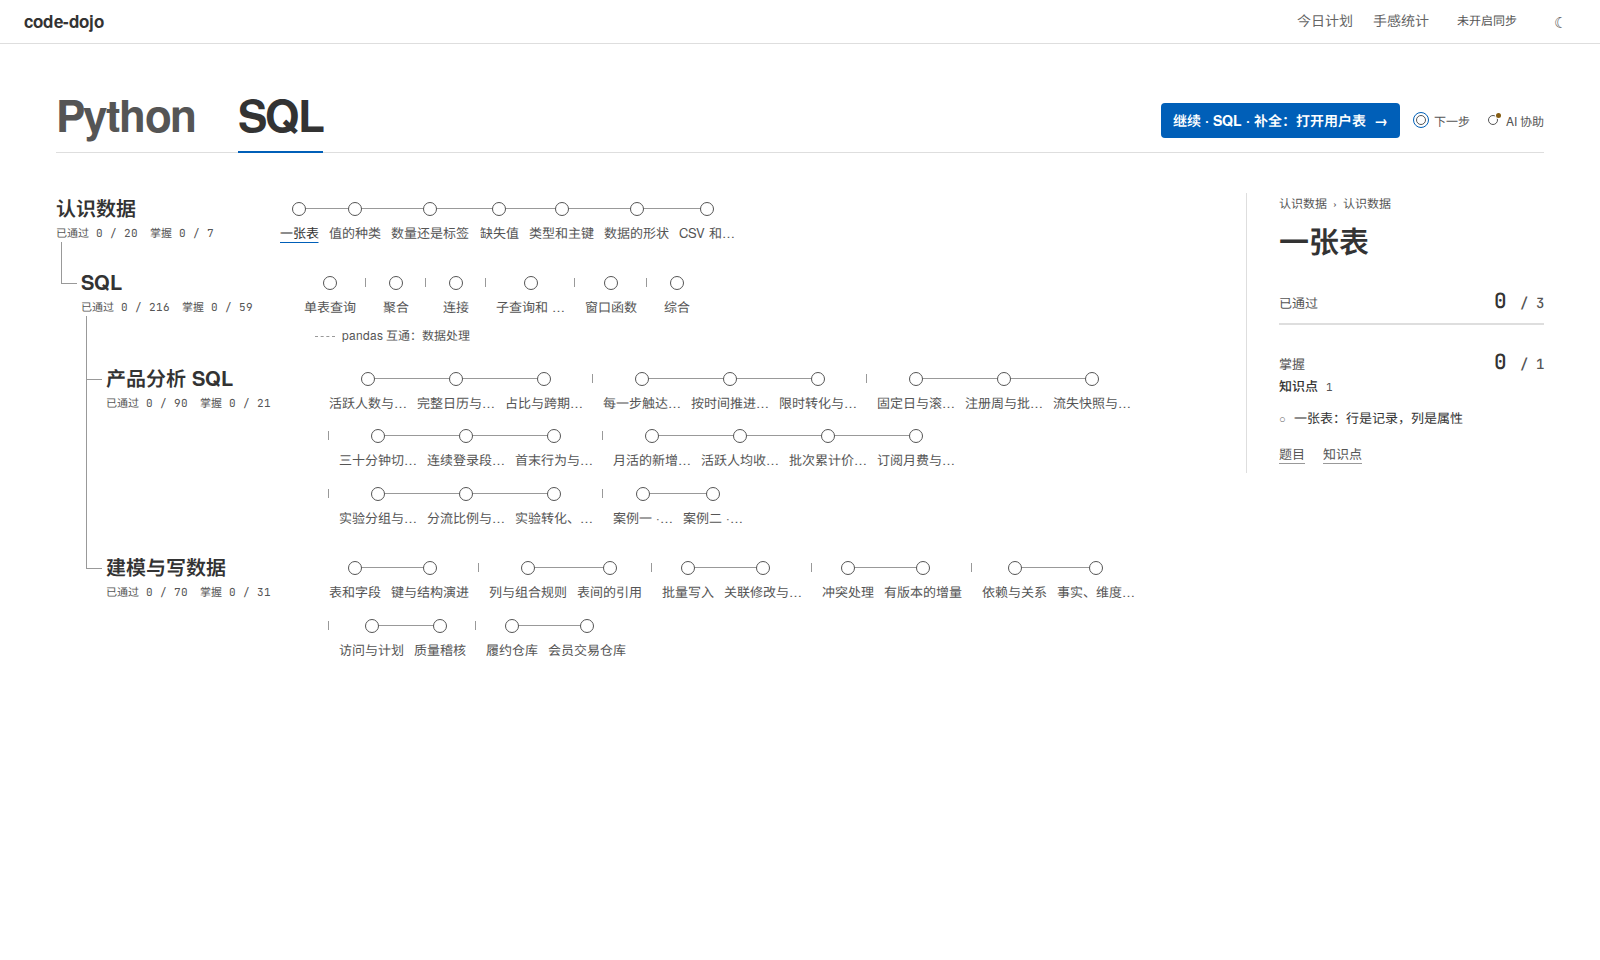
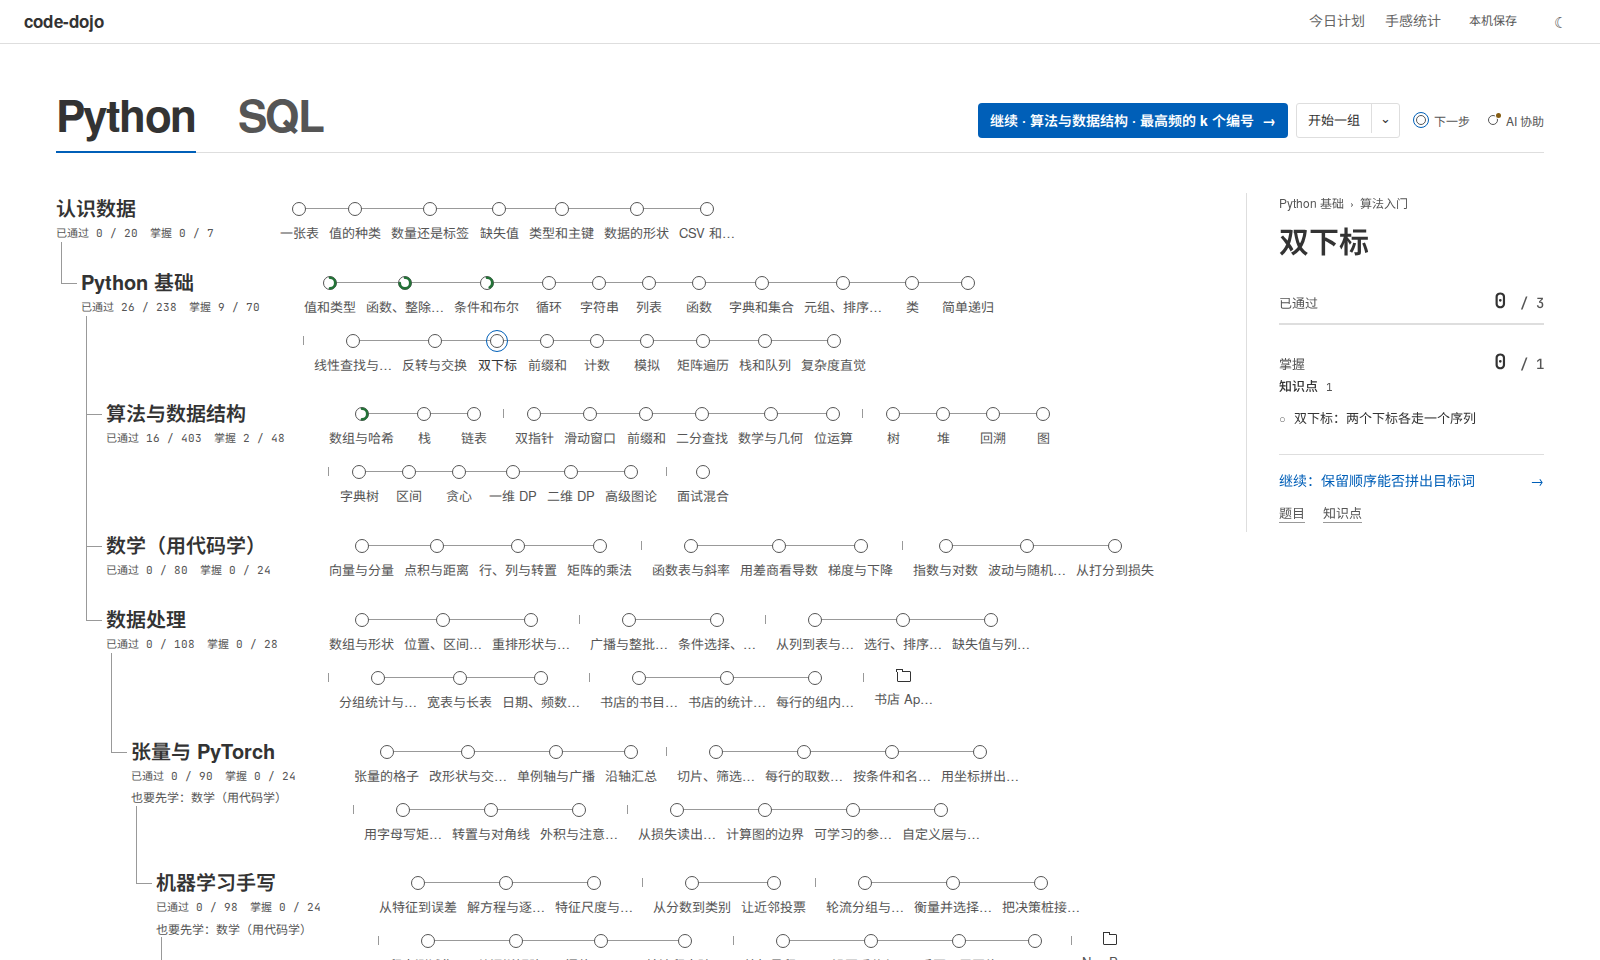
仓库首页：下载即用、AI 助教需本机装 Claude Code / Codex；新增项目、参考答案、一组练习、助教改草稿的介绍和截图
测试的临时数据目录退出时删除（每次约 1 GB，之前把根分区塞满了）。

diff --git a/server/tests/conftest.py b/server/tests/conftest.py
@@ -1,6 +1,8 @@
 """测试用独立的题库（tests/fixtures/problems）和临时数据目录，不碰真实题库和数据。"""
 
+import atexit
 import os
+import shutil
 import tempfile
 from dataclasses import replace
 from pathlib import Path
@@ -10,6 +12,8 @@ import pytest
 FIXTURES = Path(__file__).parent / "fixtures" / "problems"
 os.environ["CODE_DOJO_PROBLEMS"] = str(FIXTURES)
 os.environ["CODE_DOJO_DATA"] = tempfile.mkdtemp(prefix="code-dojo-test-data-")
+# 数据目录里有判题用的 venv（约 1 GB），每跑一次留一份会把 /tmp 塞满。
+atexit.register(shutil.rmtree, os.environ["CODE_DOJO_DATA"], ignore_errors=True)
 os.environ["CODE_DOJO_AI_PROVIDER"] = "off"  # 测试里不调真 AI，用 FakeProvider 替换
 os.environ["CODE_DOJO_AUTH"] = "off"
 os.environ.setdefault("CODE_DOJO_BANK_WATCH", "sync")  # 测试里改了文件马上要看到，保持每次请求都检查

diff --git a/README.md b/README.md
@@ -2,17 +2,29 @@
 
 **自用的手写代码练习场** · A personal practice app for getting my hands back on writing code: Python, algorithms, SQL, and machine learning built up from scratch, ending with a small GPT.
 
-> **Status: personal use.** This repository is public as a showcase only. The app is wired to my own accounts: problem-bank updates come through this repo's releases, progress syncs to a private repo, and the AI tutor runs on my Claude / ChatGPT subscriptions. It isn't packaged for anyone else to install, and I'm not taking issues or pull requests. The UI and the problem text are in Chinese.
+> **Status: a personal project you're welcome to try.** I built it for my own practice and keep working on it. The desktop app works locally out of the box: download it, open it, and your progress stays on your own computer. The UI and the problem text are in Chinese. I'm not taking issues or pull requests.
+>
+> **The AI tutor needs Claude Code or Codex on your own machine.** It runs the `claude` or `codex` command-line tool that you've installed and logged into with your own subscription; nothing is sent through a server of mine. Without either one, everything else works: lessons, judging, reference answers and projects. Only the tutor and AI-generated problems are switched off.
 
 ![Learning map](docs/images/map.png)
 
+## Getting it
+
+Download the installer for your platform from the latest [`app-v*` release](https://github.com/Rebas9512/code_dojo/releases/latest): an AppImage (or tar.gz) for Linux x86-64, a zip for Apple Silicon macOS, and a portable zip for Windows x64. The builds are unsigned, so macOS and Windows will ask you to confirm the first launch. Step-by-step instructions (in Chinese) are in [deploy/README.md](deploy/README.md#在一台新电脑上用).
+
+- **Local by default.** No account, no password. On first launch the app downloads the problem bank from this repo's public releases, and checks for a newer bank each time it opens.
+- **Progress stays on your machine**, in your user data folder. There's no telemetry.
+- **Sync is for my own machines.** In *Desktop → Settings* I enter a sync code that unlocks access to my private progress repo, so I can continue on another computer. If you leave it empty, the app simply keeps your progress locally.
+
 ## Highlights
 
-- **12 tracks, 1,554 problems**, all checked by scripts: every reference solution runs in the judge sandbox, and the learning curve is validated so that each problem introduces at most one new skill.
-- **A VS Code–style workspace**: statement and lesson on the left, Monaco editor in the middle, the AI tutor on the right, and test results / output / problems in a bottom panel. There's also a command palette, Ctrl+P quick open, and a "bare mode" that turns off autocomplete for interview-style practice.
-- **An AI tutor and AI-generated problems**, using Claude Code or Codex (whichever is installed) through my own subscription, with no API keys. A generated problem only appears after it passes verification in the sandbox.
+- **12 tracks, 1,620 problems, 7 capstone projects**, all checked by scripts: every reference solution runs in the judge, and the learning curve is validated so that each problem introduces at most one new skill.
+- **Capstone projects**: the advanced tracks and the SQL tracks end with a project split into parts. Each part is one problem, judged on its own; together they assemble into a script or notebook that runs end to end.
+- **Reference answers after you solve**: 1,366 problems have a clean, teaching-oriented standard solution with short notes. Once you've passed, you can open it and compare it with your own code in a diff view.
+- **Practice sets and focus mode**: start a set of 3–8 problems, with due reviews as a warm-up. The app goes full screen with everything else folded away, and the next problem opens as soon as you pass.
+- **A VS Code–style workspace**: statement and lesson on the left, Monaco editor in the middle, the AI tutor on the right, and test results / output / problems in a bottom panel. Every problem has a scratch file next to the answer. There's also a command palette, Ctrl+P quick open, and a "bare mode" that turns off autocomplete for interview-style practice.
+- **An AI tutor that edits alongside you**: it sees your answer and your scratch file, and can write in either one. It can also generate new problems, which only appear after they pass verification. It uses Claude Code or Codex installed on your machine (see above), with no API keys.
 - **Local judging**: Python runs natively with time and memory limits; SQL runs in the browser on PGlite, a WebAssembly build of PostgreSQL.
-- **A desktop app** for Linux, macOS and Windows (Electron). It pulls the latest problem bank on launch and syncs progress across machines.
 
 ## Track design
 
@@ -31,29 +43,29 @@ All tracks start from **认识数据 (Meet the data)**, a short shared root abou
 | Meet the data | 20 | the shared starting point |
 | Python basics | 238 | syntax → beginner algorithms |
 | Algorithms & data structures | 403 | data structures → core patterns → trees & graphs → advanced → mixed interview sets (NeetCode 250 skeleton) |
-| SQL | 216 | single table → aggregation → joins → subqueries & CTEs → window functions → mixed (SQL 50 skeleton) |
-| Product analytics SQL | 90 | metrics, funnels, retention, sessions, growth accounting, experiments, case studies |
-| Modeling & writing data | 70 | DDL & constraints, inserts / merges / incremental loads, dimensional modeling, views & data quality |
+| SQL | 224 | single table → aggregation → joins → subqueries & CTEs → window functions → mixed (SQL 50 skeleton) → **project** |
+| Product analytics SQL | 98 | metrics, funnels, retention, sessions, growth accounting, experiments, case studies → **project** |
+| Modeling & writing data | 78 | DDL & constraints, inserts / merges / incremental loads, dimensional modeling, views & data quality → **project** |
 | Math (with code) | 80 | vectors & matrices, functions & derivatives, logs & probability |
-| Data wrangling | 100 | NumPy, broadcasting, pandas, groupby / merge / pivot, LeetCode-style SQL in pandas |
+| Data wrangling | 108 | NumPy, broadcasting, pandas, groupby / merge / pivot, LeetCode-style SQL in pandas → **project** |
 | Tensors & PyTorch | 90 | shapes, indexing & masks, einsum, autograd & `nn.Module` |
-| ML from scratch | 87 | regression & gradient descent, classification, clustering & trees, evaluation, backprop & MLP |
-| Training | 80 | data pipelines, training loops, evaluation & tuning, fixing broken training scripts |
-| Build an LLM | 80 | tokenization → embeddings & attention → Transformer block → GPT forward & sampling → training & KV cache |
+| ML from scratch | 98 | regression & gradient descent, classification, clustering & trees, evaluation, backprop & MLP → **project** |
+| Training | 91 | data pipelines, training loops, evaluation & tuning, fixing broken training scripts → **project** |
+| Build an LLM | 92 | tokenization → embeddings & attention → Transformer block → GPT forward & sampling → training & KV cache → **project** |
 
 How the curriculum is built:
 
 - **It assumes no prior knowledge.** Every skill has a short lesson with runnable, step-labelled examples and a mini-quiz, attached right next to the problems that use it.
-- **Each problem introduces at most one new skill.** A skill graph tracks prerequisites. A checker script detects which syntax each reference solution actually uses (Python AST / SQL patterns), so solutions can't rely on anything not taught yet.
+- **Each problem introduces at most one new skill.** A skill graph tracks prerequisites. A checker script detects which syntax each reference solution actually uses (Python AST / SQL patterns), so solutions can't rely on anything not taught yet. The same check applies to the reference answers.
 - **Each skill has its own ladder**: *predict* the output → *complete* the missing piece → *fix* a bug → *write* it from scratch → *variant* → *combine*. Predict problems target named misconceptions (for example "print is the same as return"), drawn from a misconception catalogue.
 - **Interview skeletons**: NeetCode 250 for algorithms and SQL 50 for SQL, with small bridge problems before each new pattern. Problems that are LeetCode-premium were replaced with original problems of the same shape.
-- **Mastery and review**: skills move from learning to mastered, and a daily plan mixes due reviews with new problems. A review can be a freshly generated variant, so you can't just recall the old answer.
+- **Mastery and review**: skills move from learning to mastered, and a daily plan mixes due reviews with new problems. A review can be a freshly generated variant, so you can't just recall the old answer. The **Continue** button takes you to the next unsolved problem after the furthest point you've reached on the track you practised most recently, so skipping ahead is fine.
 
 ![A lesson with runnable examples](docs/images/lesson.png)
 
 ### Build an LLM (手搓 LLM)
 
-The last track goes from bytes to a small working GPT. Every step is checked exactly against reference implementations:
+This track goes from bytes to a small working GPT. Every step is checked exactly against reference implementations:
 
 | Stage | What you build | Checked against |
 |---|---|---|
@@ -62,26 +74,60 @@ The last track goes from bytes to a small working GPT. Every step is checked exa
 | 3 Transformer block | LayerNorm by hand, residuals, feed-forward, a pre-norm block | standard layers with fixed weights |
 | 4 GPT forward & sampling | a full single-block GPT, temperature, top-k / top-p, stopping | all 32 logits at every position; seeded generation |
 | 5 Training & KV cache | next-token training on a tiny corpus, a KV cache for incremental decoding | per-step losses; cached vs. uncached outputs |
+| 6 Project | a character-level GPT trained on *Pride and Prejudice*: AdamW, warm-up + cosine schedule, sampling, KV-cache generation | validation loss < 2.0; both decoding paths agree |
 
-The model is deliberately tiny (32-token vocab, context 16, width 48, 4 heads), so a whole training run is judged on CPU in a few seconds. Problems and corpora are original; the approach follows [minbpe](https://github.com/karpathy/minbpe), [nanoGPT](https://github.com/karpathy/nanoGPT) and [LLMs-from-scratch](https://github.com/rasbt/LLMs-from-scratch).
+The models are deliberately tiny, so a whole training run is judged on CPU. Problems are original; the approach follows [minbpe](https://github.com/karpathy/minbpe), [nanoGPT](https://github.com/karpathy/nanoGPT) and [LLMs-from-scratch](https://github.com/rasbt/LLMs-from-scratch).
 
 ![A build-an-LLM problem](docs/images/llm.png)
 
+## Capstone projects
+
+Seven tracks end with a project. Each part is a normal problem with its own tests; while you work on one part, the others are filled in with reference implementations, so each part can be judged on its own. Once every part has passed, the project page assembles your parts into one file, runs it end to end, and checks the result. You can export it as `.py` and `.ipynb` (Python) or `.sql`, and download the data to run it yourself.
+
+| Track | Project | Parts | Passes when |
+|---|---|---:|---|
+| Data wrangling | **Reader features for a bookstore app**: clean three raw logs with pandas, split sessions, and write one row per reader with a churn label | 8 | exact row count, churn rate and 30-day spend |
+| ML from scratch | **Churn prediction in NumPy**: logistic regression by hand on the table above, with scaling, gradients, F1, AUC and k-fold tuning | 11 | F1 ≥ 0.78 and AUC ≥ 0.86 on held-out readers |
+| Training | **A standard PyTorch training script** on 8×8 handwritten digits: config & seeds, loaders, AdamW + scheduler, early stopping, checkpoints, logging, CLI | 11 | validation accuracy ≥ 0.95 |
+| Build an LLM | **A character-level GPT**: vocabulary, batching, attention, blocks, training with validation loss, and generation with and without a KV cache | 12 | validation loss < 2.0, identical outputs from both paths |
+| SQL | **A monthly bookstore report**: seven CTEs (valid orders, revenue, month-over-month change, category ranks, repeat buyers…) combined into one `WITH … SELECT` | 8 | matches the reference report row by row |
+| Product analytics SQL | **A growth dashboard** for a reading app: sessions, DAU / WAU, an ordered funnel, cohort retention, growth accounting and an A/B readout | 8 | every check passes |
+| Modeling & writing data | **A small warehouse**: raw loads, customer tier history (SCD2), a product dimension, facts keyed to the tier on the day of sale, a second batch merged in, an audit of unmatched rows, and closing the books | 8 | every check passes |
+
+![A project assembled and run end to end](docs/images/project.png)
+
+## Reference answers
+
+After you've passed a problem, the **参考答案** tab shows a standard solution with short notes: the idea, its complexity, what makes it idiomatic, and sometimes a more advanced version. **和我的代码对比** opens a diff from your current code to the standard one, so a correct but clumsy answer can be tidied up line by line.
+
+![Comparing my answer with the reference](docs/images/standard.png)
+
+## Practice sets and focus mode
+
+**开始一组** on the map starts a set of 3, 5 or 8 problems, optionally time-boxed to 25 or 45 minutes. Up to two due reviews come first as a warm-up, then new problems continue from where you are on the track. Starting a set turns on focus mode: the top bar, unit list and tutor fold away (Ctrl+Alt+I still brings the tutor back), and the app goes full screen. A small bar counts progress and first-try passes in a row, and the next problem opens 1.5 seconds after you pass. The clock stays hidden unless you hover over it, and a pass sound is available but off by default. At the end you get a summary of each problem with its time.
+
+![A practice set in focus mode](docs/images/session.png)
+
 ## AI-assisted solving and problem generation
+
+> Requires [Claude Code](https://code.claude.com/docs/en/setup) or Codex installed and logged in on the same computer. The app detects them on launch, and *Desktop → Settings* shows whether the tutor is on.
 
 ![Workspace with the AI tutor](docs/images/workspace.png)
 
-- **The tutor sees what you see**: the statement, the lesson, your code and your last run. It explains in steps and gives graded hints rather than answers. Quick actions cover "explain the approach", "I'm stuck" and "fill in the next bit".
-- **A shared editor**: the tutor's suggested edits are applied directly to your code and can be undone with Ctrl+Z. Lines written by AI are counted, and a submission that used them is recorded as *AI-assisted* rather than solved on your own.
+- **The tutor sees what you see**: the statement, the lesson, your answer, your scratch file and your last run. It explains in steps and gives graded hints rather than answers. Quick actions cover "explain the approach", "I'm stuck" and "fill in the next bit".
+- **Shared editors**: the tutor's edits go straight into the answer or the scratch file, and can be undone with Ctrl+Z. Lines written by AI in the answer are counted, and a submission that used them is recorded as *AI-assisted* rather than solved on your own.
+- **Demos in the scratch file**: ask it to show something ("print the intermediate values", "try it with other numbers") and it writes a small runnable example into the scratch file and switches you there. Scratch edits don't count as AI assistance, and the tutor is asked not to sneak the full solution in that way.
 - **Pick your agent**: a dropdown lists the agents installed on the machine (Claude Code, Codex) and labels each reply with the agent that wrote it. Calls go through `claude -p` / `codex exec` with structured JSON output.
 - **Extra problems on demand**: click ＋ or ask in the chat ("make it about strings"). The agent writes a new problem in the same style, and it only appears after it passes verification in the sandbox: the reference solution must pass every test, and typical wrong solutions must fail. This usually takes 15–20 seconds.
 - **Drills when you're stuck**: if you keep failing on a skill, the tutor can generate a smaller drill. Static analysis checks that the drill uses only skills you've already mastered.
+
+![The tutor writing a demo into the scratch file](docs/images/tutor-scratch.png)
 
 ![An AI-generated extra problem](docs/images/extra.png)
 
 ## More of the workspace
 
-**A scratch pad** next to the answer file (Alt+S) for trying things out. It only shows output: no judging, and nothing is recorded.
+**A scratch file on every problem** (`scratch.py` / `scratch.sql`, Alt+S) for trying things out, including while you talk to the tutor. Ctrl+Enter shows its output; nothing is judged or recorded.
 
 ![Scratch pad](docs/images/scratch.png)
 
@@ -89,7 +135,7 @@ The model is deliberately tiny (32-token vocab, context 16, width 48, 4 heads), 
 
 ![SQL problem](docs/images/sql.png)
 
-**Light theme**, and a "continue" button that jumps to the next unsolved problem at your frontier on the most recently practised track.
+**Light theme**, with the same layout.
 
 ![Light theme](docs/images/map-light.png)
 
@@ -97,10 +143,10 @@ The model is deliberately tiny (32-token vocab, context 16, width 48, 4 heads), 
 
 - **Frontend**: React 19, Vite, TypeScript, Monaco, PGlite.
 - **Backend**: FastAPI + SQLite. A local Python judge (CPython 3.14) with time and memory limits, plus optional Docker images, including NumPy / pandas / CPU PyTorch for the data-science tracks.
-- **Desktop**: an Electron shell driving a Python launcher. Installers are built for all three platforms by GitHub Actions. Every push to `main` publishes a problem-bank "payload" release that the app picks up on next launch. Progress syncs as per-machine JSONL to a private repo.
-- **Content pipeline**: problems are plain files (YAML, Markdown, tests as JSON, SQL datasets). Checker scripts run every reference solution, precompute the expected SQL tables, and enforce the learning-curve rules.
+- **Desktop**: an Electron shell driving a Python launcher. GitHub Actions builds installers for all three platforms. Every push to `main` publishes a problem-bank "payload" release, which the app downloads anonymously on its next launch. Optional progress sync stores each machine's records as JSONL in a private repo. Its tokens ship encrypted in the installer (scrypt + AES-256-GCM), and the sync code unlocks them.
+- **Content pipeline**: problems are plain files (YAML, Markdown, tests as JSON, SQL datasets). Checker scripts run every reference solution and reference answer, run each project end to end, precompute the expected SQL tables, and enforce the learning-curve rules.
 
-Developer documentation is in Chinese: [docs/README.md](docs/README.md) (architecture and how to run), [docs/curriculum.md](docs/curriculum.md) (curriculum design), [docs/teaching-design.md](docs/teaching-design.md) (teaching design and the misconception catalogue), and [docs/problem-format.md](docs/problem-format.md) (problem file format).
+Developer documentation is in Chinese: [docs/README.md](docs/README.md) (architecture and how to run), [docs/curriculum.md](docs/curriculum.md) (curriculum design), [docs/teaching-design.md](docs/teaching-design.md) (teaching design and the misconception catalogue), [docs/problem-format.md](docs/problem-format.md) (problem file format) and [deploy/README.md](deploy/README.md) (installing and releasing).
 
 ## License
 
